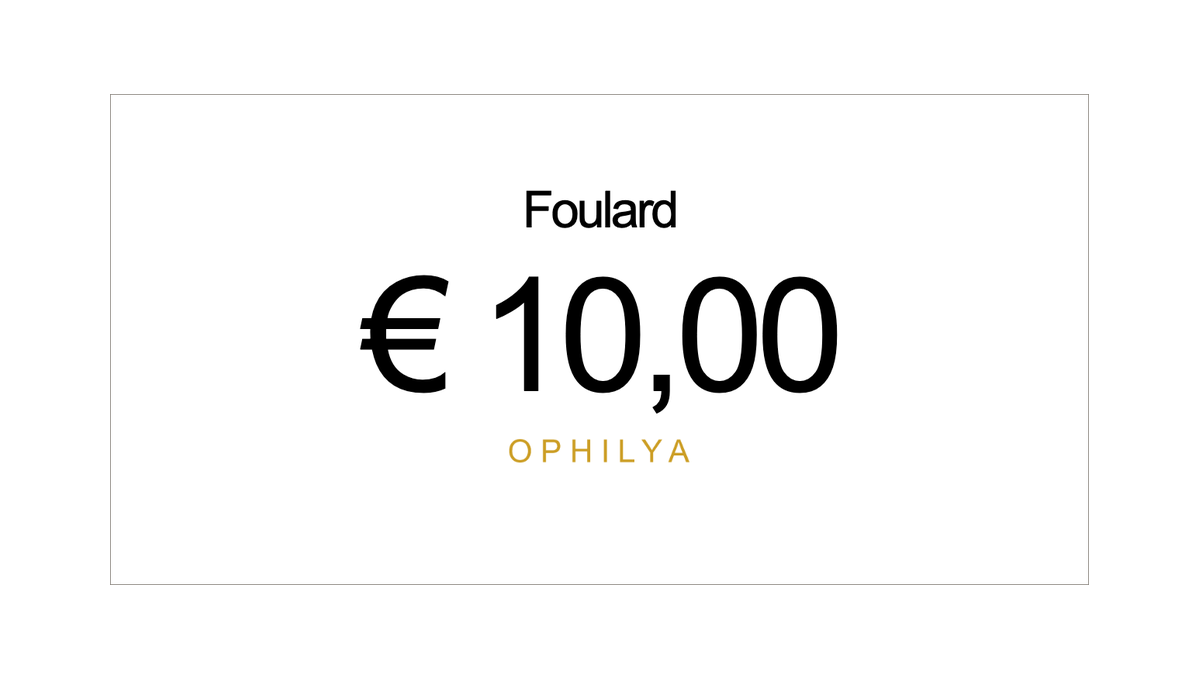
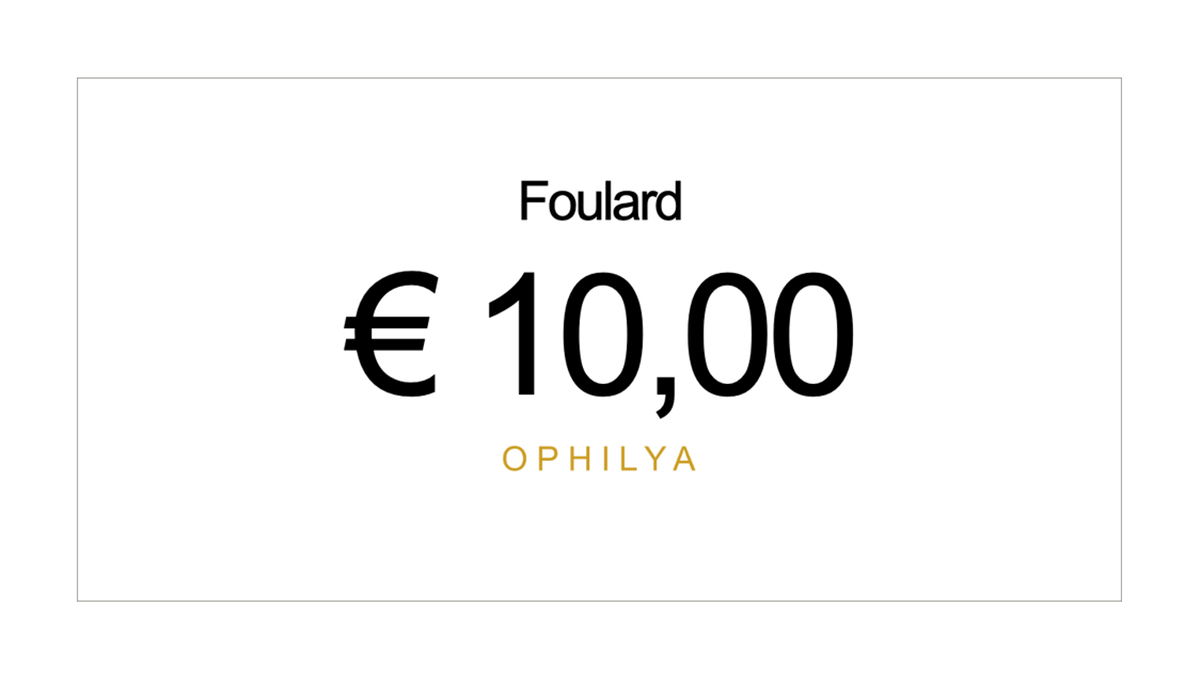
Cartellini TEBE: prezzi di nuovo a corpo pieno con Chrome 154, titoli in Cinzel, dashboard OPHILYA
- Cartellini TEBE: fitText controlla solo la larghezza per prezzo finale e doppio prezzo
  (da Chrome 154 lo scrollHeight del Bodoni riduceva tutti i prezzi a 20 pt)
- Titolo del pannello in Cinzel in tutte le pagine di Crea Cartelli e Cartellini
- Dashboard: titoli delle sezioni in oro, caroselli subito sul primo widget al cambio
  di negozio, Utilità di Cassa nascoste in OPHILYA CREATOR
- Miniatura Albero Accessori OPHILYA alla stessa larghezza di quella TEBE

diff --git a/index.html b/index.html
@@ -258,6 +258,9 @@ body.cassiere-mode #strumenti-cassa{order:1}
 body.cassiere-mode #cash-tools-area{order:2}
 body.creator-mode #strumenti-cassa,
 body.creator-mode #cash-tools-area{order:20}
+/* OPHILYA in CREATOR: le Utilità di Cassa non compaiono (restano in CASSIERE). */
+body.ophilya.creator-mode #strumenti-cassa,
+body.ophilya.creator-mode #cash-tools-area{display:none}
 body.cassiere-mode .content > #cartelli,
 body.cassiere-mode .content > .cartelli-carousel-shell,
 body.cassiere-mode .content > #etichette,
@@ -315,7 +318,7 @@ h1{
 .section{
   font-size:10px;
   letter-spacing:.25em;
-  color:#8b8175;
+  color:var(--gold);
   margin:31px 0 14px;
 }
 /* Un po' di respiro in piu' sopra la prima sezione (solo desktop: sul telefono vale la regola mobile). */
@@ -589,6 +592,13 @@ h1{
   scroll-snap-type:x mandatory;
   scroll-behavior:smooth;
   scrollbar-width:none;
+}
+/* Durante il cambio di negozio i caroselli tornano all'inizio di colpo, senza
+   animazione e senza riagganciarsi alla card di prima (vedi resetCarousels). */
+body.store-switching .cards,
+body.store-switching .dymo-carousel{
+  scroll-snap-type:none;
+  scroll-behavior:auto;
 }
 .dymo-carousel::-webkit-scrollbar{
   display:none;
@@ -1067,8 +1077,7 @@ body.ophilya .lower{
   pointer-events:none;
 }
 /* Widget presenti solo in TEBE (es. etichetta Taglie Brand, che OPHILYA non ha). */
-body.ophilya .tebe-only{display:none}
-/* Widget presenti solo in OPHILYA (es. Albero Accessori OPHILYA, primo di CREA CARTELLI). */
+body.ophilya .tebe-only{display:none}/* Widget presenti solo in OPHILYA (es. Albero Accessori OPHILYA, primo di CREA CARTELLI). */
 body:not(.ophilya) .ophilya-only{display:none}
 /* OPHILYA: in CREA CARTELLI i cartelli TEBE lasciano il posto a voci "Presto disponibile" non cliccabili. */
 .sidebar-nav-ophilya,
@@ -1524,7 +1533,7 @@ body.ophilya .cash-tools-coming-soon{
           <div>
             <div class="number">01<span class="card-type">RASTRELLIERA</span></div>
             <div class="card-thumb slideshow">
-              <img src="assets/thumbnail/alberoophilyathumb.png" alt="Albero Accessori OPHILYA">
+              <img src="assets/thumbnail/alberoophilyathumb.png?v=20261002" alt="Albero Accessori OPHILYA">
               <img src="assets/thumbnail/alberoophilyathumb2.png" alt="" aria-hidden="true">
             </div>
           </div>
@@ -1959,6 +1968,7 @@ function changeStore(store){
 
   document.getElementById("tebe").classList.toggle("selected",store==="tebe");
   document.getElementById("ophilya").classList.toggle("selected",store==="ophilya");
+  document.body.classList.add("store-switching");
   document.body.classList.toggle("ophilya", store === "ophilya");
   // Miniature con una versione OPHILYA (es. etichette DYMO).
   document.querySelectorAll("img[data-ophilya-src]").forEach(img => {
@@ -1967,6 +1977,30 @@ function changeStore(store){
   });
 
   updateLinks();
+  resetCarousels();
+}
+
+/* Al cambio di negozio compaiono o spariscono card in testa ai caroselli
+   (es. .ophilya-only): lo scroll-snap resterebbe agganciato alla card di prima,
+   più avanti nel carosello, e lo scorrimento animato si vedrebbe. Con la classe
+   store-switching (aggiunta da changeStore) snap e animazione sono sospesi:
+   i caroselli tornano subito al primo widget e solo dopo si riattiva lo snap,
+   che a quel punto si aggancia proprio al primo. */
+function resetCarousels(){
+  const carousels = document.querySelectorAll(".cartelli-carousel, .dymo-carousel");
+  const reset = () => carousels.forEach(carousel => {
+    carousel._carouselTarget = null;
+    carousel.scrollLeft = 0;
+  });
+  reset();
+  requestAnimationFrame(() => {
+    reset();
+    document.body.classList.remove("store-switching");
+    updateDymoCarouselControls();
+    updateCartelliCarouselControls();
+    updatePrintsCarouselControls();
+    updateCartelliniCarouselControls();
+  });
 }
 
 function goTo(sectionId){

diff --git a/cartellinitebe.html b/cartellinitebe.html
@@ -4,6 +4,7 @@
   <meta charset="UTF-8">
   <meta name="viewport" content="width=device-width, initial-scale=1.0">
   <link rel="stylesheet" href="assets/css/font-arial.css">
+  <link href="https://fonts.googleapis.com/css2?family=Cinzel:wght@600&display=swap" rel="stylesheet">
   <title>Cartellini TEBE</title>
   <!-- CARICAMENTO ELENCO LOGHI CENTRALIZZATO -->
   <script src="assets/js/logos.js?v=20260927"></script>
@@ -37,7 +38,7 @@
 
     /* --- SIDEBAR --- */
     aside { width: 340px; background: var(--sidebar); border-right: 1px solid var(--border); padding: 1.5rem 1rem 8rem; display: flex; flex-direction: column; flex-shrink: 0; overflow-y: auto; }
-    .brand-title { font-family: Arial, Helvetica, sans-serif; font-size: 1.05rem; letter-spacing: 3px; color: var(--gold); margin-bottom: 1rem; text-align: center; font-weight: 400; text-transform: uppercase; }
+    .brand-title { font-family: 'Cinzel', serif; font-size: 1.05rem; letter-spacing: 3px; color: var(--gold); margin-bottom: 1rem; text-align: center; font-weight: 600; text-transform: uppercase; }
 
     .tabs-grid { display: grid; grid-template-columns: repeat(4, 1fr); gap: 0.4rem; margin-bottom: 1.2rem; }
     .tab-item { background: var(--card); border: 1px solid var(--border); border-radius: 6px; padding: 0.4rem 0.2rem; display: flex; flex-direction: column; align-items: center; gap: 0.2rem; cursor: pointer; transition: all 0.2s; }
@@ -993,12 +994,15 @@
       });
     }
 
-    // Riduce il corpo del testo finché non entra nel suo riquadro (larghezza e altezza).
-    function fitText(el, maxPt, minPt) {
+    // Riduce il corpo del testo finché non entra nel suo riquadro (larghezza e, se richiesto, altezza).
+    // I testi su una riga sola (prezzi) controllano solo la larghezza: da Chrome 154 lo scrollHeight
+    // del Bodoni con line-height 1 supera il riquadro anche quando il testo entra, e il prezzo
+    // finiva ridotto al corpo minimo.
+    function fitText(el, maxPt, minPt, checkHeight = true) {
       if (!el) return;
       let size = maxPt;
       el.style.fontSize = `${size}pt`;
-      while (size > minPt && (el.scrollWidth > el.clientWidth + 0.5 || el.scrollHeight > el.clientHeight + 0.5)) {
+      while (size > minPt && (el.scrollWidth > el.clientWidth + 0.5 || (checkHeight && el.scrollHeight > el.clientHeight + 0.5))) {
         size -= 0.5;
         el.style.fontSize = `${size}pt`;
       }
@@ -1017,9 +1021,9 @@
     function fitAllCards() {
       document.querySelectorAll('.cartellino').forEach(card => {
         fitText(card.querySelector('.desc-text'), 15.5, 8);
-        fitText(card.querySelector('.double-price'), 14.5, 8);
+        fitText(card.querySelector('.double-price'), 14.5, 8, false);
         const finalPrice = card.querySelector('.final-price');
-        fitText(finalPrice, getFinalPriceSize(finalPrice.dataset.price || ''), 20);
+        fitText(finalPrice, getFinalPriceSize(finalPrice.dataset.price || ''), 20, false);
       });
     }
 

diff --git a/cartellinilxry.html b/cartellinilxry.html
@@ -4,6 +4,7 @@
   <meta charset="UTF-8">
   <meta name="viewport" content="width=device-width, initial-scale=1.0">
   <link rel="stylesheet" href="assets/css/font-arial.css">
+  <link href="https://fonts.googleapis.com/css2?family=Cinzel:wght@600&display=swap" rel="stylesheet">
   <title>Cartellini LXRY</title>
     <!-- CARICAMENTO ELENCO LOGHI CENTRALIZZATO -->
   <script src="assets/js/logos.js?v=20260927"></script>
@@ -49,7 +50,7 @@
 
     /* --- SIDEBAR --- */
     aside { width: 340px; background: var(--sidebar); border-right: 1px solid var(--border); padding: 1.5rem 1rem 8rem; display: flex; flex-direction: column; flex-shrink: 0; overflow-y: auto; }
-    .brand-title { font-family: Arial, Helvetica, sans-serif; font-size: 1.05rem; letter-spacing: 3px; color: var(--gold); margin-bottom: 1rem; text-align: center; font-weight: 400; text-transform: uppercase; }
+    .brand-title { font-family: 'Cinzel', serif; font-size: 1.05rem; letter-spacing: 3px; color: var(--gold); margin-bottom: 1rem; text-align: center; font-weight: 600; text-transform: uppercase; }
 
     .tabs-grid { display: grid; grid-template-columns: repeat(4, 1fr); gap: 0.4rem; margin-bottom: 1.2rem; }
     .tab-item { background: var(--card); border: 1px solid var(--border); border-radius: 6px; padding: 0.4rem 0.2rem; display: flex; flex-direction: column; align-items: center; gap: 0.2rem; cursor: pointer; transition: all 0.2s; }

diff --git a/prezzivetrina.html b/prezzivetrina.html
@@ -4,6 +4,7 @@
   <meta charset="UTF-8">
   <meta name="viewport" content="width=device-width, initial-scale=1.0">
   <link rel="stylesheet" href="assets/css/font-arial.css">
+  <link href="https://fonts.googleapis.com/css2?family=Cinzel:wght@600&display=swap" rel="stylesheet">
   <title>Prezzi Vetrina</title>
 
   <style>
@@ -41,7 +42,7 @@
 
     /* --- SIDEBAR --- */
     aside { width: 340px; background: var(--sidebar); border-right: 1px solid var(--border); padding: 1.5rem 1rem 8rem; display: flex; flex-direction: column; flex-shrink: 0; overflow-y: auto; }
-    .brand-title { font-family: Arial, Helvetica, sans-serif; font-size: 1.05rem; letter-spacing: 3px; color: var(--gold); margin-bottom: 1rem; text-align: center; font-weight: 400; text-transform: uppercase; }
+    .brand-title { font-family: 'Cinzel', serif; font-size: 1.05rem; letter-spacing: 3px; color: var(--gold); margin-bottom: 1rem; text-align: center; font-weight: 600; text-transform: uppercase; }
 
     .tabs-grid { display: grid; grid-template-columns: repeat(3, 1fr); gap: 0.4rem; margin-bottom: 1.2rem; }
     .tab-item { background: var(--card); border: 1px solid var(--border); border-radius: 6px; padding: 0.4rem 0.2rem; display: flex; flex-direction: column; align-items: center; gap: 0.2rem; cursor: pointer; transition: all 0.2s; }

diff --git a/cornice21x27.html b/cornice21x27.html
@@ -4,6 +4,7 @@
   <meta charset="UTF-8">
   <meta name="viewport" content="width=device-width, initial-scale=1.0">
   <link rel="stylesheet" href="assets/css/font-arial.css">
+  <link href="https://fonts.googleapis.com/css2?family=Cinzel:wght@600&display=swap" rel="stylesheet">
   <title>Cornice 21 X 27 · TEBE · OPHILYA</title>
   <script src="assets/js/logos.js?v=20260927"></script>
   <script src="assets/js/print-logo-colors.js?v=20260927"></script>
@@ -43,7 +44,8 @@
     }
 
     .controls h2 {
-      font-family: Arial, Helvetica, sans-serif;
+      font-family: 'Cinzel', serif;
+      font-weight: 600;
       font-size: 1.1rem;
       color: #b49a62;
       border-bottom: 1px solid #e3dacb;

diff --git a/cornici10x15.html b/cornici10x15.html
@@ -4,6 +4,7 @@
   <meta charset="UTF-8">
   <meta name="viewport" content="width=device-width, initial-scale=1.0">
   <link rel="stylesheet" href="assets/css/font-arial.css">
+  <link href="https://fonts.googleapis.com/css2?family=Cinzel:wght@600&display=swap" rel="stylesheet">
   <title>Cornice 10 X 15 · TEBE · OPHILYA</title>
   <script src="assets/js/logos.js?v=20260927"></script>
   <script src="assets/js/print-logo-colors.js?v=20260927"></script>
@@ -43,7 +44,8 @@
     }
 
     .controls h2 {
-      font-family: Arial, Helvetica, sans-serif;
+      font-family: 'Cinzel', serif;
+      font-weight: 600;
       font-size: 1.1rem;
       color: #b49a62;
       border-bottom: 1px solid #e3dacb;

diff --git a/cartellopercentuale.html b/cartellopercentuale.html
@@ -4,6 +4,7 @@
   <meta charset="UTF-8">
   <meta name="viewport" content="width=device-width, initial-scale=1.0">
   <link rel="stylesheet" href="assets/css/font-arial.css">
+  <link href="https://fonts.googleapis.com/css2?family=Cinzel:wght@600&display=swap" rel="stylesheet">
   <title>Cartello Percentuale</title>
   <script src="assets/js/logos.js?v=20260927"></script>
   <script src="assets/js/print-logo-colors.js?v=20260927"></script>
@@ -44,7 +45,8 @@
     }
 
     .controls h2 {
-      font-family: Arial, Helvetica, sans-serif;
+      font-family: 'Cinzel', serif;
+      font-weight: 600;
       font-size: 1.1rem;
       color: #b49a62;
       border-bottom: 1px solid #e3dacb;

diff --git a/cartelli_brand.html b/cartelli_brand.html
@@ -4,6 +4,7 @@
   <meta charset="UTF-8">
   <meta name="viewport" content="width=device-width, initial-scale=1.0">
   <link rel="stylesheet" href="assets/css/font-arial.css">
+  <link href="https://fonts.googleapis.com/css2?family=Cinzel:wght@600&display=swap" rel="stylesheet">
   <title>Cartello Brand</title>
   <script src="assets/js/logos.js?v=20260927"></script>
   <script src="assets/js/print-logo-colors.js?v=20260927"></script>
@@ -44,7 +45,8 @@
     }
 
     .controls h2 {
-      font-family: Arial, Helvetica, sans-serif;
+      font-family: 'Cinzel', serif;
+      font-weight: 600;
       font-size: 1.1rem;
       color: #b49a62;
       border-bottom: 1px solid #e3dacb;

diff --git a/paletto18x12-ophilya.html b/paletto18x12-ophilya.html
@@ -4,6 +4,7 @@
   <meta charset="UTF-8">
   <meta name="viewport" content="width=device-width, initial-scale=1.0">
   <link rel="stylesheet" href="assets/css/font-arial.css">
+  <link href="https://fonts.googleapis.com/css2?family=Cinzel:wght@600&display=swap" rel="stylesheet">
   <title>Paletto 18x12 · OPHILYA</title>
   <style>
     /* Bodoni del sito: dichiarato come nei Cartellini (senza font-display: swap) */
@@ -56,6 +57,8 @@
     }
 
     .controls h1 {
+      font-family: 'Cinzel', serif;
+      font-weight: 600;
       margin-bottom: 0.8rem;
       padding-bottom: 0.6rem;
       border-bottom: 1px solid #e3dacb;

diff --git a/cartelli_sale.html b/cartelli_sale.html
@@ -4,6 +4,7 @@
   <meta charset="UTF-8">
   <meta name="viewport" content="width=device-width, initial-scale=1.0">
   <link rel="stylesheet" href="assets/css/font-arial.css">
+  <link href="https://fonts.googleapis.com/css2?family=Cinzel:wght@600&display=swap" rel="stylesheet">
   <title>Cartello SALE</title>
   <style>
     * { box-sizing: border-box; margin: 0; padding: 0; }
@@ -42,7 +43,8 @@
     }
 
     .controls h2 {
-      font-family: Arial, Helvetica, sans-serif;
+      font-family: 'Cinzel', serif;
+      font-weight: 600;
       font-size: 1.1rem;
       color: #b49a62;
       border-bottom: 1px solid #e3dacb;

diff --git a/paletto-ophilya.html b/paletto-ophilya.html
@@ -4,6 +4,7 @@
   <meta charset="UTF-8">
   <meta name="viewport" content="width=device-width, initial-scale=1.0">
   <link rel="stylesheet" href="assets/css/font-arial.css">
+  <link href="https://fonts.googleapis.com/css2?family=Cinzel:wght@600&display=swap" rel="stylesheet">
   <title>Paletto · OPHILYA</title>
   <style>
     /* Bodoni del sito: dichiarato come nei Cartellini (senza font-display: swap) */
@@ -56,6 +57,8 @@
     }
 
     .controls h1 {
+      font-family: 'Cinzel', serif;
+      font-weight: 600;
       margin-bottom: 0.8rem;
       padding-bottom: 0.6rem;
       border-bottom: 1px solid #e3dacb;

diff --git a/paletto18x12.html b/paletto18x12.html
@@ -4,6 +4,7 @@
   <meta charset="UTF-8">
   <meta name="viewport" content="width=device-width, initial-scale=1.0">
   <link rel="stylesheet" href="assets/css/font-arial.css">
+  <link href="https://fonts.googleapis.com/css2?family=Cinzel:wght@600&display=swap" rel="stylesheet">
   <title>Paletto 18x12</title>
   <style>
     /* Bodoni del sito: dichiarato come nei Cartellini (senza font-display: swap) */
@@ -56,6 +57,8 @@
     }
 
     .controls h1 {
+      font-family: 'Cinzel', serif;
+      font-weight: 600;
       margin-bottom: 0.8rem;
       padding-bottom: 0.6rem;
       border-bottom: 1px solid #e3dacb;
